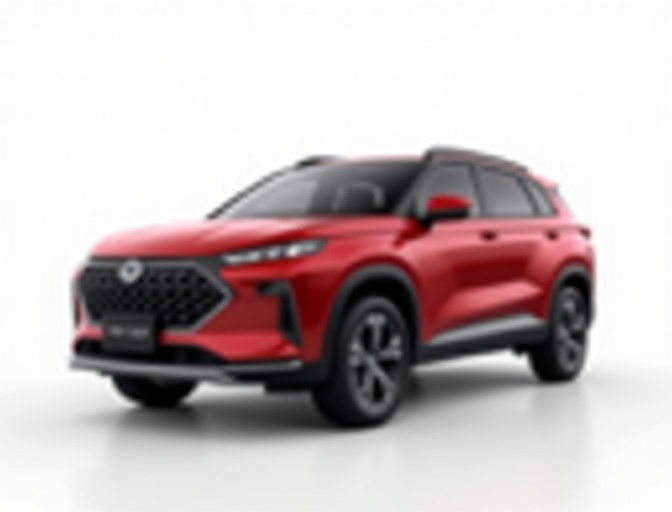
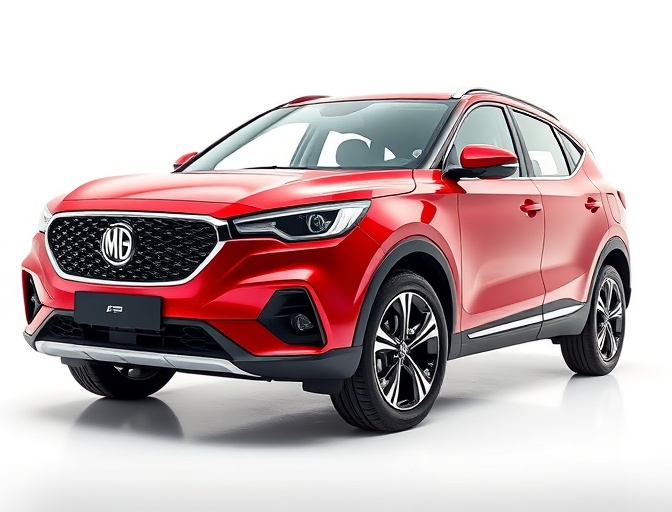
Updates

diff --git a/index.html b/index.html
@@ -87,8 +87,8 @@
         ]
       }
     </script>
-    <script type="module" crossorigin src="/kfdmotors/assets/index-FrkmGRXA.js"></script>
-    <link rel="stylesheet" crossorigin href="/kfdmotors/assets/index-CBtG1Gx0.css">
+    <script type="module" crossorigin src="/kfdmotors/assets/index-CjOHCFP9.js"></script>
+    <link rel="stylesheet" crossorigin href="/kfdmotors/assets/index-DInC2VcM.css">
   </head>
   <body>
     <div id="root"></div>

diff --git a/assets/index-DInC2VcM.css b/assets/index-DInC2VcM.css
@@ -1,0 +1,2 @@
+/*! tailwindcss v4.3.0 | MIT License | https://tailwindcss.com */
+@layer properties{@supports (((-webkit-hyphens:none)) and (not (margin-trim:inline))) or ((-moz-orient:inline) and (not (color:rgb(from red r g b)))){*,:before,:after,::backdrop{--tw-translate-x:0;--tw-translate-y:0;--tw-translate-z:0;--tw-rotate-x:initial;--tw-rotate-y:initial;--tw-rotate-z:initial;--tw-skew-x:initial;--tw-skew-y:initial;--tw-border-style:solid;--tw-gradient-position:initial;--tw-gradient-from:#0000;--tw-gradient-via:#0000;--tw-gradient-to:#0000;--tw-gradient-stops:initial;--tw-gradient-via-stops:initial;--tw-gradient-from-position:0%;--tw-gradient-via-position:50%;--tw-gradient-to-position:100%;--tw-leading:initial;--tw-font-weight:initial;--tw-tracking:initial;--tw-shadow:0 0 #0000;--tw-shadow-color:initial;--tw-shadow-alpha:100%;--tw-inset-shadow:0 0 #0000;--tw-inset-shadow-color:initial;--tw-inset-shadow-alpha:100%;--tw-ring-color:initial;--tw-ring-shadow:0 0 #0000;--tw-inset-ring-color:initial;--tw-inset-ring-shadow:0 0 #0000;--tw-ring-inset:initial;--tw-ring-offset-width:0px;--tw-ring-offset-color:#fff;--tw-ring-offset-shadow:0 0 #0000;--tw-blur:initial;--tw-brightness:initial;--tw-contrast:initial;--tw-grayscale:initial;--tw-hue-rotate:initial;--tw-invert:initial;--tw-opacity:initial;--tw-saturate:initial;--tw-sepia:initial;--tw-drop-shadow:initial;--tw-drop-shadow-color:initial;--tw-drop-shadow-alpha:100%;--tw-drop-shadow-size:initial;--tw-backdrop-blur:initial;--tw-backdrop-brightness:initial;--tw-backdrop-contrast:initial;--tw-backdrop-grayscale:initial;--tw-backdrop-hue-rotate:initial;--tw-backdrop-invert:initial;--tw-backdrop-opacity:initial;--tw-backdrop-saturate:initial;--tw-backdrop-sepia:initial;--tw-duration:initial;--tw-ease:initial;--tw-scale-x:1;--tw-scale-y:1;--tw-scale-z:1;--tw-content:""}}}@layer theme{:root,:host{--font-sans:ui-sans-serif, system-ui, sans-serif, "Apple Color Emoji", "Segoe UI Emoji", "Segoe UI Symbol", "Noto Color Emoji";--font-mono:ui-monospace, SFMono-Regular, Menlo, Monaco, Consolas, "Liberation Mono", "Courier New", monospace;--color-red-50:oklch(97.1% .013 17.38);--color-red-100:oklch(93.6% .032 17.717);--color-red-200:oklch(88.5% .062 18.334);--color-red-500:oklch(63.7% .237 25.331);--color-red-600:oklch(57.7% .245 27.325);--color-orange-50:oklch(98% .016 73.684);--color-orange-100:oklch(95.4% .038 75.164);--color-orange-200:oklch(90.1% .076 70.697);--color-orange-400:oklch(75% .183 55.934);--color-orange-500:oklch(70.5% .213 47.604);--color-yellow-50:oklch(98.7% .026 102.212);--color-yellow-100:oklch(97.3% .071 103.193);--color-yellow-700:oklch(55.4% .135 66.442);--color-green-50:oklch(98.2% .018 155.826);--color-green-100:oklch(96.2% .044 156.743);--color-green-500:oklch(72.3% .219 149.579);--color-green-700:oklch(52.7% .154 150.069);--color-blue-50:oklch(97% .014 254.604);--color-blue-100:oklch(93.2% .032 255.585);--color-blue-200:oklch(88.2% .059 254.128);--color-blue-300:oklch(80.9% .105 251.813);--color-blue-400:oklch(70.7% .165 254.624);--color-blue-500:oklch(62.3% .214 259.815);--color-blue-600:oklch(54.6% .245 262.881);--color-blue-700:oklch(48.8% .243 264.376);--color-gray-50:oklch(98.5% .002 247.839);--color-gray-100:oklch(96.7% .003 264.542);--color-gray-200:oklch(92.8% .006 264.531);--color-gray-300:oklch(87.2% .01 258.338);--color-gray-400:oklch(70.7% .022 261.325);--color-gray-500:oklch(55.1% .027 264.364);--color-gray-600:oklch(44.6% .03 256.802);--color-gray-700:oklch(37.3% .034 259.733);--color-gray-800:oklch(27.8% .033 256.848);--color-gray-900:oklch(21% .034 264.665);--color-black:#000;--color-white:#fff;--spacing:.25rem;--container-xs:20rem;--container-sm:24rem;--container-md:28rem;--container-lg:32rem;--container-xl:36rem;--container-2xl:42rem;--container-3xl:48rem;--container-4xl:56rem;--container-7xl:80rem;--text-xs:.75rem;--text-xs--line-height:calc(1 / .75);--text-sm:.875rem;--text-sm--line-height:calc(1.25 / .875);--text-base:1rem;--text-base--line-height:calc(1.5 / 1);--text-lg:1.125rem;--text-lg--line-height:calc(1.75 / 1.125);--text-xl:1.25rem;--text-xl--line-height:calc(1.75 / 1.25);--text-2xl:1.5rem;--text-2xl--line-height:calc(2 / 1.5);--text-3xl:1.875rem;--text-3xl--line-height:calc(2.25 / 1.875);--text-4xl:2.25rem;--text-4xl--line-height:calc(2.5 / 2.25);--text-5xl:3rem;--text-5xl--line-height:1;--text-6xl:3.75rem;--text-6xl--line-height:1;--text-7xl:4.5rem;--text-7xl--line-height:1;--font-weight-light:300;--font-weight-medium:500;--font-weight-semibold:600;--font-weight-bold:700;--tracking-wide:.025em;--tracking-widest:.1em;--leading-tight:1.25;--leading-snug:1.375;--leading-relaxed:1.625;--radius-lg:.5rem;--radius-xl:.75rem;--radius-2xl:1rem;--ease-in-out:cubic-bezier(.4, 0, .2, 1);--animate-spin:spin 1s linear infinite;--blur-sm:8px;--blur-md:12px;--default-transition-duration:.15s;--default-transition-timing-function:cubic-bezier(.4, 0, .2, 1);--default-font-family:var(--font-sans);--default-mono-font-family:var(--font-mono)}}@layer base{*,:after,:before,::backdrop{box-sizing:border-box;border:0 solid;margin:0;padding:0}::file-selector-button{box-sizing:border-box;border:0 solid;margin:0;padding:0}html,:host{-webkit-text-size-adjust:100%;tab-size:4;line-height:1.5;font-family:var(--default-font-family,ui-sans-serif, system-ui, sans-serif, "Apple Color Emoji", "Segoe UI Emoji", "Segoe UI Symbol", "Noto Color Emoji");font-feature-settings:var(--default-font-feature-settings,normal);font-variation-settings:var(--default-font-variation-settings,normal);-webkit-tap-highlight-color:transparent}hr{height:0;color:inherit;border-top-width:1px}abbr:where([title]){-webkit-text-decoration:underline dotted;text-decoration:underline dotted}h1,h2,h3,h4,h5,h6{font-size:inherit;font-weight:inherit}a{color:inherit;-webkit-text-decoration:inherit;-webkit-text-decoration:inherit;-webkit-text-decoration:inherit;-webkit-text-decoration:inherit;text-decoration:inherit}b,strong{font-weight:bolder}code,kbd,samp,pre{font-family:var(--default-mono-font-family,ui-monospace, SFMono-Regular, Menlo, Monaco, Consolas, "Liberation Mono", "Courier New", monospace);font-feature-settings:var(--default-mono-font-feature-settings,normal);font-variation-settings:var(--default-mono-font-variation-settings,normal);font-size:1em}small{font-size:80%}sub,sup{vertical-align:baseline;font-size:75%;line-height:0;position:relative}sub{bottom:-.25em}sup{top:-.5em}table{text-indent:0;border-color:inherit;border-collapse:collapse}:-moz-focusring{outline:auto}progress{vertical-align:baseline}summary{display:list-item}ol,ul,menu{list-style:none}img,svg,video,canvas,audio,iframe,embed,object{vertical-align:middle;display:block}img,video{max-width:100%;height:auto}button,input,select,optgroup,textarea{font:inherit;font-feature-settings:inherit;font-variation-settings:inherit;letter-spacing:inherit;color:inherit;opacity:1;background-color:#0000;border-radius:0}::file-selector-button{font:inherit;font-feature-settings:inherit;font-variation-settings:inherit;letter-spacing:inherit;color:inherit;opacity:1;background-color:#0000;border-radius:0}:where(select:is([multiple],[size])) optgroup{font-weight:bolder}:where(select:is([multiple],[size])) optgroup option{padding-inline-start:20px}::file-selector-button{margin-inline-end:4px}::placeholder{opacity:1}@supports (not ((-webkit-appearance:-apple-pay-button))) or (contain-intrinsic-size:1px){::placeholder{color:currentColor}@supports (color:color-mix(in lab, red, red)){::placeholder{color:color-mix(in oklab, currentcolor 50%, transparent)}}}textarea{resize:vertical}::-webkit-search-decoration{-webkit-appearance:none}::-webkit-date-and-time-value{min-height:1lh;text-align:inherit}::-webkit-datetime-edit{display:inline-flex}::-webkit-datetime-edit-fields-wrapper{padding:0}::-webkit-datetime-edit{padding-block:0}::-webkit-datetime-edit-year-field{padding-block:0}::-webkit-datetime-edit-month-field{padding-block:0}::-webkit-datetime-edit-day-field{padding-block:0}::-webkit-datetime-edit-hour-field{padding-block:0}::-webkit-datetime-edit-minute-field{padding-block:0}::-webkit-datetime-edit-second-field{padding-block:0}::-webkit-datetime-edit-millisecond-field{padding-block:0}::-webkit-datetime-edit-meridiem-field{padding-block:0}::-webkit-calendar-picker-indicator{line-height:1}:-moz-ui-invalid{box-shadow:none}button,input:where([type=button],[type=reset],[type=submit]){appearance:button}::file-selector-button{appearance:button}::-webkit-inner-spin-button{height:auto}::-webkit-outer-spin-button{height:auto}[hidden]:where(:not([hidden=until-found])){display:none!important}}@layer components;@layer utilities{.pointer-events-none{pointer-events:none}.absolute{position:absolute}.fixed{position:fixed}.relative{position:relative}.sticky{position:sticky}.inset-0{inset:calc(var(--spacing) * 0)}.-top-1{top:calc(var(--spacing) * -1)}.top-0{top:calc(var(--spacing) * 0)}.top-1\/2{top:50%}.top-3{top:calc(var(--spacing) * 3)}.top-4{top:calc(var(--spacing) * 4)}.top-6{top:calc(var(--spacing) * 6)}.-right-1{right:calc(var(--spacing) * -1)}.right-3{right:calc(var(--spacing) * 3)}.right-4{right:calc(var(--spacing) * 4)}.right-6{right:calc(var(--spacing) * 6)}.right-8{right:calc(var(--spacing) * 8)}.bottom-3{bottom:calc(var(--spacing) * 3)}.bottom-6{bottom:calc(var(--spacing) * 6)}.bottom-8{bottom:calc(var(--spacing) * 8)}.left-0{left:calc(var(--spacing) * 0)}.left-1\/2{left:50%}.left-3{left:calc(var(--spacing) * 3)}.left-4{left:calc(var(--spacing) * 4)}.z-0{z-index:0}.z-10{z-index:10}.z-30{z-index:30}.z-40{z-index:40}.z-50{z-index:50}.mx-auto{margin-inline:auto}.my-3{margin-block:calc(var(--spacing) * 3)}.mt-0\.5{margin-top:calc(var(--spacing) * .5)}.mt-1{margin-top:calc(var(--spacing) * 1)}.mt-2{margin-top:calc(var(--spacing) * 2)}.mt-3{margin-top:calc(var(--spacing) * 3)}.mt-4{margin-top:calc(var(--spacing) * 4)}.mt-6{margin-top:calc(var(--spacing) * 6)}.mt-8{margin-top:calc(var(--spacing) * 8)}.mt-10{margin-top:calc(var(--spacing) * 10)}.mt-12{margin-top:calc(var(--spacing) * 12)}.mt-16{margin-top:calc(var(--spacing) * 16)}.mt-20{margin-top:calc(var(--spacing) * 20)}.mb-0\.5{margin-bottom:calc(var(--spacing) * .5)}.mb-1{margin-bottom:calc(var(--spacing) * 1)}.mb-2{margin-bottom:calc(var(--spacing) * 2)}.mb-3{margin-bottom:calc(var(--spacing) * 3)}.mb-4{margin-bottom:calc(var(--spacing) * 4)}.mb-5{margin-bottom:calc(var(--spacing) * 5)}.mb-6{margin-bottom:calc(var(--spacing) * 6)}.mb-8{margin-bottom:calc(var(--spacing) * 8)}.mb-10{margin-bottom:calc(var(--spacing) * 10)}.mb-12{margin-bottom:calc(var(--spacing) * 12)}.mb-14{margin-bottom:calc(var(--spacing) * 14)}.mb-24{margin-bottom:calc(var(--spacing) * 24)}.ml-auto{margin-left:auto}.block{display:block}.flex{display:flex}.grid{display:grid}.hidden{display:none}.inline-flex{display:inline-flex}.h-0\.5{height:calc(var(--spacing) * .5)}.h-1\.5{height:calc(var(--spacing) * 1.5)}.h-2{height:calc(var(--spacing) * 2)}.h-4{height:calc(var(--spacing) * 4)}.h-8{height:calc(var(--spacing) * 8)}.h-9{height:calc(var(--spacing) * 9)}.h-10{height:calc(var(--spacing) * 10)}.h-11{height:calc(var(--spacing) * 11)}.h-12{height:calc(var(--spacing) * 12)}.h-14{height:calc(var(--spacing) * 14)}.h-16{height:calc(var(--spacing) * 16)}.h-20{height:calc(var(--spacing) * 20)}.h-40{height:calc(var(--spacing) * 40)}.h-48{height:calc(var(--spacing) * 48)}.h-52{height:calc(var(--spacing) * 52)}.h-72{height:calc(var(--spacing) * 72)}.h-80{height:calc(var(--spacing) * 80)}.h-\[1px\]{height:1px}.h-full{height:100%}.max-h-0{max-height:calc(var(--spacing) * 0)}.max-h-\[90vh\]{max-height:90vh}.max-h-\[400px\]{max-height:400px}.min-h-screen{min-height:100vh}.w-1\.5{width:calc(var(--spacing) * 1.5)}.w-2{width:calc(var(--spacing) * 2)}.w-4{width:calc(var(--spacing) * 4)}.w-6{width:calc(var(--spacing) * 6)}.w-8{width:calc(var(--spacing) * 8)}.w-9{width:calc(var(--spacing) * 9)}.w-10{width:calc(var(--spacing) * 10)}.w-11{width:calc(var(--spacing) * 11)}.w-12{width:calc(var(--spacing) * 12)}.w-14{width:calc(var(--spacing) * 14)}.w-16{width:calc(var(--spacing) * 16)}.w-64{width:calc(var(--spacing) * 64)}.w-auto{width:auto}.w-full{width:100%}.max-w-2xl{max-width:var(--container-2xl)}.max-w-3xl{max-width:var(--container-3xl)}.max-w-4xl{max-width:var(--container-4xl)}.max-w-7xl{max-width:var(--container-7xl)}.max-w-lg{max-width:var(--container-lg)}.max-w-md{max-width:var(--container-md)}.max-w-sm{max-width:var(--container-sm)}.max-w-xl{max-width:var(--container-xl)}.max-w-xs{max-width:var(--container-xs)}.flex-1{flex:1}.shrink-0{flex-shrink:0}.-translate-x-1\/2{--tw-translate-x:calc(calc(1 / 2 * 100%) * -1);translate:var(--tw-translate-x) var(--tw-translate-y)}.-translate-x-2{--tw-translate-x:calc(var(--spacing) * -2);translate:var(--tw-translate-x) var(--tw-translate-y)}.-translate-x-full{--tw-translate-x:-100%;translate:var(--tw-translate-x) var(--tw-translate-y)}.translate-x-0{--tw-translate-x:calc(var(--spacing) * 0);translate:var(--tw-translate-x) var(--tw-translate-y)}.-translate-y-1\/2{--tw-translate-y:calc(calc(1 / 2 * 100%) * -1);translate:var(--tw-translate-x) var(--tw-translate-y)}.rotate-180{rotate:180deg}.transform{transform:var(--tw-rotate-x,) var(--tw-rotate-y,) var(--tw-rotate-z,) var(--tw-skew-x,) var(--tw-skew-y,)}.animate-spin{animation:var(--animate-spin)}.cursor-pointer{cursor:pointer}.resize-none{resize:none}.appearance-none{appearance:none}.grid-cols-1{grid-template-columns:repeat(1,minmax(0,1fr))}.grid-cols-2{grid-template-columns:repeat(2,minmax(0,1fr))}.flex-col{flex-direction:column}.flex-wrap{flex-wrap:wrap}.items-baseline{align-items:baseline}.items-center{align-items:center}.items-start{align-items:flex-start}.items-stretch{align-items:stretch}.justify-between{justify-content:space-between}.justify-center{justify-content:center}.justify-end{justify-content:flex-end}.gap-1{gap:calc(var(--spacing) * 1)}.gap-1\.5{gap:calc(var(--spacing) * 1.5)}.gap-2{gap:calc(var(--spacing) * 2)}.gap-2\.5{gap:calc(var(--spacing) * 2.5)}.gap-3{gap:calc(var(--spacing) * 3)}.gap-4{gap:calc(var(--spacing) * 4)}.gap-5{gap:calc(var(--spacing) * 5)}.gap-6{gap:calc(var(--spacing) * 6)}.gap-8{gap:calc(var(--spacing) * 8)}.gap-12{gap:calc(var(--spacing) * 12)}.gap-16{gap:calc(var(--spacing) * 16)}.self-start{align-self:flex-start}.truncate{text-overflow:ellipsis;white-space:nowrap;overflow:hidden}.overflow-hidden{overflow:hidden}.overflow-x-auto{overflow-x:auto}.overflow-y-auto{overflow-y:auto}.rounded-2xl{border-radius:var(--radius-2xl)}.rounded-full{border-radius:3.40282e38px}.rounded-lg{border-radius:var(--radius-lg)}.rounded-xl{border-radius:var(--radius-xl)}.border{border-style:var(--tw-border-style);border-width:1px}.border-2{border-style:var(--tw-border-style);border-width:2px}.border-t{border-top-style:var(--tw-border-style);border-top-width:1px}.border-r{border-right-style:var(--tw-border-style);border-right-width:1px}.border-b{border-bottom-style:var(--tw-border-style);border-bottom-width:1px}.border-dashed{--tw-border-style:dashed;border-style:dashed}.border-blue-100{border-color:var(--color-blue-100)}.border-blue-200{border-color:var(--color-blue-200)}.border-blue-600{border-color:var(--color-blue-600)}.border-gray-50{border-color:var(--color-gray-50)}.border-gray-100{border-color:var(--color-gray-100)}.border-gray-200{border-color:var(--color-gray-200)}.border-gray-700{border-color:var(--color-gray-700)}.border-gray-800{border-color:var(--color-gray-800)}.border-green-100{border-color:var(--color-green-100)}.border-orange-100{border-color:var(--color-orange-100)}.border-orange-200{border-color:var(--color-orange-200)}.border-red-100{border-color:var(--color-red-100)}.border-red-200{border-color:var(--color-red-200)}.border-white\/30{border-color:#ffffff4d}@supports (color:color-mix(in lab, red, red)){.border-white\/30{border-color:color-mix(in oklab, var(--color-white) 30%, transparent)}}.border-white\/40{border-color:#fff6}@supports (color:color-mix(in lab, red, red)){.border-white\/40{border-color:color-mix(in oklab, var(--color-white) 40%, transparent)}}.border-yellow-100{border-color:var(--color-yellow-100)}.bg-black\/30{background-color:#0000004d}@supports (color:color-mix(in lab, red, red)){.bg-black\/30{background-color:color-mix(in oklab, var(--color-black) 30%, transparent)}}.bg-black\/40{background-color:#0006}@supports (color:color-mix(in lab, red, red)){.bg-black\/40{background-color:color-mix(in oklab, var(--color-black) 40%, transparent)}}.bg-black\/50{background-color:#00000080}@supports (color:color-mix(in lab, red, red)){.bg-black\/50{background-color:color-mix(in oklab, var(--color-black) 50%, transparent)}}.bg-black\/70{background-color:#000000b3}@supports (color:color-mix(in lab, red, red)){.bg-black\/70{background-color:color-mix(in oklab, var(--color-black) 70%, transparent)}}.bg-blue-50{background-color:var(--color-blue-50)}.bg-blue-100{background-color:var(--color-blue-100)}.bg-blue-400{background-color:var(--color-blue-400)}.bg-blue-600{background-color:var(--color-blue-600)}.bg-gray-50{background-color:var(--color-gray-50)}.bg-gray-100{background-color:var(--color-gray-100)}.bg-gray-300{background-color:var(--color-gray-300)}.bg-gray-800{background-color:var(--color-gray-800)}.bg-gray-900{background-color:var(--color-gray-900)}.bg-green-50{background-color:var(--color-green-50)}.bg-orange-50{background-color:var(--color-orange-50)}.bg-red-50{background-color:var(--color-red-50)}.bg-red-500{background-color:var(--color-red-500)}.bg-white{background-color:var(--color-white)}.bg-white\/10{background-color:#ffffff1a}@supports (color:color-mix(in lab, red, red)){.bg-white\/10{background-color:color-mix(in oklab, var(--color-white) 10%, transparent)}}.bg-white\/20{background-color:#fff3}@supports (color:color-mix(in lab, red, red)){.bg-white\/20{background-color:color-mix(in oklab, var(--color-white) 20%, transparent)}}.bg-white\/90{background-color:#ffffffe6}@supports (color:color-mix(in lab, red, red)){.bg-white\/90{background-color:color-mix(in oklab, var(--color-white) 90%, transparent)}}.bg-yellow-50{background-color:var(--color-yellow-50)}.bg-gradient-to-r{--tw-gradient-position:to right in oklab;background-image:linear-gradient(var(--tw-gradient-stops))}.bg-gradient-to-t{--tw-gradient-position:to top in oklab;background-image:linear-gradient(var(--tw-gradient-stops))}.from-black\/60{--tw-gradient-from:#0009}@supports (color:color-mix(in lab, red, red)){.from-black\/60{--tw-gradient-from:color-mix(in oklab, var(--color-black) 60%, transparent)}}.from-black\/60{--tw-gradient-stops:var(--tw-gradient-via-stops,var(--tw-gradient-position), var(--tw-gradient-from) var(--tw-gradient-from-position), var(--tw-gradient-to) var(--tw-gradient-to-position))}.from-black\/80{--tw-gradient-from:#000c}@supports (color:color-mix(in lab, red, red)){.from-black\/80{--tw-gradient-from:color-mix(in oklab, var(--color-black) 80%, transparent)}}.from-black\/80{--tw-gradient-stops:var(--tw-gradient-via-stops,var(--tw-gradient-position), var(--tw-gradient-from) var(--tw-gradient-from-position), var(--tw-gradient-to) var(--tw-gradient-to-position))}.via-black\/60{--tw-gradient-via:#0009}@supports (color:color-mix(in lab, red, red)){.via-black\/60{--tw-gradient-via:color-mix(in oklab, var(--color-black) 60%, transparent)}}.via-black\/60{--tw-gradient-via-stops:var(--tw-gradient-position), var(--tw-gradient-from) var(--tw-gradient-from-position), var(--tw-gradient-via) var(--tw-gradient-via-position), var(--tw-gradient-to) var(--tw-gradient-to-position);--tw-gradient-stops:var(--tw-gradient-via-stops)}.via-transparent{--tw-gradient-via:transparent;--tw-gradient-via-stops:var(--tw-gradient-position), var(--tw-gradient-from) var(--tw-gradient-from-position), var(--tw-gradient-via) var(--tw-gradient-via-position), var(--tw-gradient-to) var(--tw-gradient-to-position);--tw-gradient-stops:var(--tw-gradient-via-stops)}.to-black\/30{--tw-gradient-to:#0000004d}@supports (color:color-mix(in lab, red, red)){.to-black\/30{--tw-gradient-to:color-mix(in oklab, var(--color-black) 30%, transparent)}}.to-black\/30{--tw-gradient-stops:var(--tw-gradient-via-stops,var(--tw-gradient-position), var(--tw-gradient-from) var(--tw-gradient-from-position), var(--tw-gradient-to) var(--tw-gradient-to-position))}.to-transparent{--tw-gradient-to:transparent;--tw-gradient-stops:var(--tw-gradient-via-stops,var(--tw-gradient-position), var(--tw-gradient-from) var(--tw-gradient-from-position), var(--tw-gradient-to) var(--tw-gradient-to-position))}.fill-blue-600{fill:var(--color-blue-600)}.fill-red-500{fill:var(--color-red-500)}.object-contain{object-fit:contain}.object-cover{object-fit:cover}.object-center{object-position:center}.p-1{padding:calc(var(--spacing) * 1)}.p-3{padding:calc(var(--spacing) * 3)}.p-4{padding:calc(var(--spacing) * 4)}.p-5{padding:calc(var(--spacing) * 5)}.p-6{padding:calc(var(--spacing) * 6)}.p-8{padding:calc(var(--spacing) * 8)}.p-10{padding:calc(var(--spacing) * 10)}.px-2{padding-inline:calc(var(--spacing) * 2)}.px-2\.5{padding-inline:calc(var(--spacing) * 2.5)}.px-3{padding-inline:calc(var(--spacing) * 3)}.px-4{padding-inline:calc(var(--spacing) * 4)}.px-5{padding-inline:calc(var(--spacing) * 5)}.px-6{padding-inline:calc(var(--spacing) * 6)}.px-7{padding-inline:calc(var(--spacing) * 7)}.px-8{padding-inline:calc(var(--spacing) * 8)}.py-0\.5{padding-block:calc(var(--spacing) * .5)}.py-1{padding-block:calc(var(--spacing) * 1)}.py-1\.5{padding-block:calc(var(--spacing) * 1.5)}.py-2{padding-block:calc(var(--spacing) * 2)}.py-2\.5{padding-block:calc(var(--spacing) * 2.5)}.py-3{padding-block:calc(var(--spacing) * 3)}.py-3\.5{padding-block:calc(var(--spacing) * 3.5)}.py-4{padding-block:calc(var(--spacing) * 4)}.py-5{padding-block:calc(var(--spacing) * 5)}.py-8{padding-block:calc(var(--spacing) * 8)}.py-10{padding-block:calc(var(--spacing) * 10)}.py-16{padding-block:calc(var(--spacing) * 16)}.py-20{padding-block:calc(var(--spacing) * 20)}.py-24{padding-block:calc(var(--spacing) * 24)}.pt-2{padding-top:calc(var(--spacing) * 2)}.pt-4{padding-top:calc(var(--spacing) * 4)}.pt-16{padding-top:calc(var(--spacing) * 16)}.pt-24{padding-top:calc(var(--spacing) * 24)}.pr-4{padding-right:calc(var(--spacing) * 4)}.pr-8{padding-right:calc(var(--spacing) * 8)}.pr-11{padding-right:calc(var(--spacing) * 11)}.pb-1{padding-bottom:calc(var(--spacing) * 1)}.pb-5{padding-bottom:calc(var(--spacing) * 5)}.pb-12{padding-bottom:calc(var(--spacing) * 12)}.pb-20{padding-bottom:calc(var(--spacing) * 20)}.pl-10{padding-left:calc(var(--spacing) * 10)}.text-center{text-align:center}.text-left{text-align:left}.text-2xl{font-size:var(--text-2xl);line-height:var(--tw-leading,var(--text-2xl--line-height))}.text-3xl{font-size:var(--text-3xl);line-height:var(--tw-leading,var(--text-3xl--line-height))}.text-4xl{font-size:var(--text-4xl);line-height:var(--tw-leading,var(--text-4xl--line-height))}.text-5xl{font-size:var(--text-5xl);line-height:var(--tw-leading,var(--text-5xl--line-height))}.text-base{font-size:var(--text-base);line-height:var(--tw-leading,var(--text-base--line-height))}.text-lg{font-size:var(--text-lg);line-height:var(--tw-leading,var(--text-lg--line-height))}.text-sm{font-size:var(--text-sm);line-height:var(--tw-leading,var(--text-sm--line-height))}.text-xl{font-size:var(--text-xl);line-height:var(--tw-leading,var(--text-xl--line-height))}.text-xs{font-size:var(--text-xs);line-height:var(--tw-leading,var(--text-xs--line-height))}.text-\[9px\]{font-size:9px}.text-\[10px\]{font-size:10px}.leading-relaxed{--tw-leading:var(--leading-relaxed);line-height:var(--leading-relaxed)}.leading-snug{--tw-leading:var(--leading-snug);line-height:var(--leading-snug)}.leading-tight{--tw-leading:var(--leading-tight);line-height:var(--leading-tight)}.font-bold{--tw-font-weight:var(--font-weight-bold);font-weight:var(--font-weight-bold)}.font-light{--tw-font-weight:var(--font-weight-light);font-weight:var(--font-weight-light)}.font-medium{--tw-font-weight:var(--font-weight-medium);font-weight:var(--font-weight-medium)}.font-semibold{--tw-font-weight:var(--font-weight-semibold);font-weight:var(--font-weight-semibold)}.tracking-\[0\.2em\]{--tw-tracking:.2em;letter-spacing:.2em}.tracking-\[0\.3em\]{--tw-tracking:.3em;letter-spacing:.3em}.tracking-wide{--tw-tracking:var(--tracking-wide);letter-spacing:var(--tracking-wide)}.tracking-widest{--tw-tracking:var(--tracking-widest);letter-spacing:var(--tracking-widest)}.break-all{word-break:break-all}.whitespace-nowrap{white-space:nowrap}.text-blue-100{color:var(--color-blue-100)}.text-blue-200{color:var(--color-blue-200)}.text-blue-400{color:var(--color-blue-400)}.text-blue-500{color:var(--color-blue-500)}.text-blue-600{color:var(--color-blue-600)}.text-blue-700{color:var(--color-blue-700)}.text-gray-200{color:var(--color-gray-200)}.text-gray-300{color:var(--color-gray-300)}.text-gray-400{color:var(--color-gray-400)}.text-gray-500{color:var(--color-gray-500)}.text-gray-600{color:var(--color-gray-600)}.text-gray-700{color:var(--color-gray-700)}.text-gray-800{color:var(--color-gray-800)}.text-gray-900{color:var(--color-gray-900)}.text-green-500{color:var(--color-green-500)}.text-green-700{color:var(--color-green-700)}.text-orange-400{color:var(--color-orange-400)}.text-orange-500{color:var(--color-orange-500)}.text-red-500{color:var(--color-red-500)}.text-red-600{color:var(--color-red-600)}.text-white{color:var(--color-white)}.text-yellow-700{color:var(--color-yellow-700)}.uppercase{text-transform:uppercase}.italic{font-style:italic}.underline{text-decoration-line:underline}.underline-offset-2{text-underline-offset:2px}.placeholder-gray-400::placeholder{color:var(--color-gray-400)}.opacity-0{opacity:0}.opacity-5{opacity:.05}.opacity-25{opacity:.25}.opacity-75{opacity:.75}.opacity-100{opacity:1}.shadow-lg{--tw-shadow:0 10px 15px -3px var(--tw-shadow-color,#0000001a), 0 4px 6px -4px var(--tw-shadow-color,#0000001a);box-shadow:var(--tw-inset-shadow), var(--tw-inset-ring-shadow), var(--tw-ring-offset-shadow), var(--tw-ring-shadow), var(--tw-shadow)}.shadow-md{--tw-shadow:0 4px 6px -1px var(--tw-shadow-color,#0000001a), 0 2px 4px -2px var(--tw-shadow-color,#0000001a);box-shadow:var(--tw-inset-shadow), var(--tw-inset-ring-shadow), var(--tw-ring-offset-shadow), var(--tw-ring-shadow), var(--tw-shadow)}.shadow-sm{--tw-shadow:0 1px 3px 0 var(--tw-shadow-color,#0000001a), 0 1px 2px -1px var(--tw-shadow-color,#0000001a);box-shadow:var(--tw-inset-shadow), var(--tw-inset-ring-shadow), var(--tw-ring-offset-shadow), var(--tw-ring-shadow), var(--tw-shadow)}.shadow-xl{--tw-shadow:0 20px 25px -5px var(--tw-shadow-color,#0000001a), 0 8px 10px -6px var(--tw-shadow-color,#0000001a);box-shadow:var(--tw-inset-shadow), var(--tw-inset-ring-shadow), var(--tw-ring-offset-shadow), var(--tw-ring-shadow), var(--tw-shadow)}.shadow-blue-100{--tw-shadow-color:oklch(93.2% .032 255.585)}@supports (color:color-mix(in lab, red, red)){.shadow-blue-100{--tw-shadow-color:color-mix(in oklab, var(--color-blue-100) var(--tw-shadow-alpha), transparent)}}.shadow-blue-200{--tw-shadow-color:oklch(88.2% .059 254.128)}@supports (color:color-mix(in lab, red, red)){.shadow-blue-200{--tw-shadow-color:color-mix(in oklab, var(--color-blue-200) var(--tw-shadow-alpha), transparent)}}.filter{filter:var(--tw-blur,) var(--tw-brightness,) var(--tw-contrast,) var(--tw-grayscale,) var(--tw-hue-rotate,) var(--tw-invert,) var(--tw-saturate,) var(--tw-sepia,) var(--tw-drop-shadow,)}.backdrop-blur-md{--tw-backdrop-blur:blur(var(--blur-md));-webkit-backdrop-filter:var(--tw-backdrop-blur,) var(--tw-backdrop-brightness,) var(--tw-backdrop-contrast,) var(--tw-backdrop-grayscale,) var(--tw-backdrop-hue-rotate,) var(--tw-backdrop-invert,) var(--tw-backdrop-opacity,) var(--tw-backdrop-saturate,) var(--tw-backdrop-sepia,);backdrop-filter:var(--tw-backdrop-blur,) var(--tw-backdrop-brightness,) var(--tw-backdrop-contrast,) var(--tw-backdrop-grayscale,) var(--tw-backdrop-hue-rotate,) var(--tw-backdrop-invert,) var(--tw-backdrop-opacity,) var(--tw-backdrop-saturate,) var(--tw-backdrop-sepia,)}.backdrop-blur-sm{--tw-backdrop-blur:blur(var(--blur-sm));-webkit-backdrop-filter:var(--tw-backdrop-blur,) var(--tw-backdrop-brightness,) var(--tw-backdrop-contrast,) var(--tw-backdrop-grayscale,) var(--tw-backdrop-hue-rotate,) var(--tw-backdrop-invert,) var(--tw-backdrop-opacity,) var(--tw-backdrop-saturate,) var(--tw-backdrop-sepia,);backdrop-filter:var(--tw-backdrop-blur,) var(--tw-backdrop-brightness,) var(--tw-backdrop-contrast,) var(--tw-backdrop-grayscale,) var(--tw-backdrop-hue-rotate,) var(--tw-backdrop-invert,) var(--tw-backdrop-opacity,) var(--tw-backdrop-saturate,) var(--tw-backdrop-sepia,)}.transition{transition-property:color,background-color,border-color,outline-color,text-decoration-color,fill,stroke,--tw-gradient-from,--tw-gradient-via,--tw-gradient-to,opacity,box-shadow,transform,translate,scale,rotate,filter,-webkit-backdrop-filter,backdrop-filter,display,content-visibility,overlay,pointer-events;transition-timing-function:var(--tw-ease,var(--default-transition-timing-function));transition-duration:var(--tw-duration,var(--default-transition-duration))}.transition-all{transition-property:all;transition-timing-function:var(--tw-ease,var(--default-transition-timing-function));transition-duration:var(--tw-duration,var(--default-transition-duration))}.transition-colors{transition-property:color,background-color,border-color,outline-color,text-decoration-color,fill,stroke,--tw-gradient-from,--tw-gradient-via,--tw-gradient-to;transition-timing-function:var(--tw-ease,var(--default-transition-timing-function));transition-duration:var(--tw-duration,var(--default-transition-duration))}.transition-shadow{transition-property:box-shadow;transition-timing-function:var(--tw-ease,var(--default-transition-timing-function));transition-duration:var(--tw-duration,var(--default-transition-duration))}.transition-transform{transition-property:transform,translate,scale,rotate;transition-timing-function:var(--tw-ease,var(--default-transition-timing-function));transition-duration:var(--tw-duration,var(--default-transition-duration))}.duration-200{--tw-duration:.2s;transition-duration:.2s}.duration-300{--tw-duration:.3s;transition-duration:.3s}.duration-500{--tw-duration:.5s;transition-duration:.5s}.ease-in-out{--tw-ease:var(--ease-in-out);transition-timing-function:var(--ease-in-out)}@media (hover:hover){.group-hover\:-translate-x-1:is(:where(.group):hover *){--tw-translate-x:calc(var(--spacing) * -1);translate:var(--tw-translate-x) var(--tw-translate-y)}.group-hover\:translate-x-0:is(:where(.group):hover *){--tw-translate-x:calc(var(--spacing) * 0);translate:var(--tw-translate-x) var(--tw-translate-y)}.group-hover\:scale-105:is(:where(.group):hover *){--tw-scale-x:105%;--tw-scale-y:105%;--tw-scale-z:105%;scale:var(--tw-scale-x) var(--tw-scale-y)}.group-hover\:border-blue-600:is(:where(.group):hover *){border-color:var(--color-blue-600)}.group-hover\:bg-blue-600:is(:where(.group):hover *){background-color:var(--color-blue-600)}.group-hover\:text-blue-400:is(:where(.group):hover *){color:var(--color-blue-400)}.group-hover\:text-blue-600:is(:where(.group):hover *){color:var(--color-blue-600)}.group-hover\:text-white:is(:where(.group):hover *){color:var(--color-white)}.group-hover\:opacity-100:is(:where(.group):hover *){opacity:1}.group-hover\/btn\:translate-x-1:is(:where(.group\/btn):hover *),.group-hover\/link\:translate-x-1:is(:where(.group\/link):hover *){--tw-translate-x:calc(var(--spacing) * 1);translate:var(--tw-translate-x) var(--tw-translate-y)}}.after\:absolute:after{content:var(--tw-content);position:absolute}.after\:bottom-0:after{content:var(--tw-content);bottom:calc(var(--spacing) * 0)}.after\:left-0:after{content:var(--tw-content);left:calc(var(--spacing) * 0)}.after\:h-\[2px\]:after{content:var(--tw-content);height:2px}.after\:w-full:after{content:var(--tw-content);width:100%}.after\:rounded-full:after{content:var(--tw-content);border-radius:3.40282e38px}.after\:bg-blue-600:after{content:var(--tw-content);background-color:var(--color-blue-600)}.after\:content-\[\'\'\]:after{--tw-content:"";content:var(--tw-content)}@media (hover:hover){.hover\:-translate-y-1:hover{--tw-translate-y:calc(var(--spacing) * -1);translate:var(--tw-translate-x) var(--tw-translate-y)}.hover\:scale-110:hover{--tw-scale-x:110%;--tw-scale-y:110%;--tw-scale-z:110%;scale:var(--tw-scale-x) var(--tw-scale-y)}.hover\:border-blue-200:hover{border-color:var(--color-blue-200)}.hover\:border-blue-400:hover{border-color:var(--color-blue-400)}.hover\:border-blue-600:hover{border-color:var(--color-blue-600)}.hover\:border-gray-200:hover{border-color:var(--color-gray-200)}.hover\:border-gray-300:hover{border-color:var(--color-gray-300)}.hover\:border-red-100:hover{border-color:var(--color-red-100)}.hover\:border-white:hover{border-color:var(--color-white)}.hover\:border-white\/60:hover{border-color:#fff9}@supports (color:color-mix(in lab, red, red)){.hover\:border-white\/60:hover{border-color:color-mix(in oklab, var(--color-white) 60%, transparent)}}.hover\:bg-black\/70:hover{background-color:#000000b3}@supports (color:color-mix(in lab, red, red)){.hover\:bg-black\/70:hover{background-color:color-mix(in oklab, var(--color-black) 70%, transparent)}}.hover\:bg-blue-50:hover{background-color:var(--color-blue-50)}.hover\:bg-blue-300:hover{background-color:var(--color-blue-300)}.hover\:bg-blue-600:hover{background-color:var(--color-blue-600)}.hover\:bg-blue-700:hover{background-color:var(--color-blue-700)}.hover\:bg-gray-50:hover{background-color:var(--color-gray-50)}.hover\:bg-gray-100:hover{background-color:var(--color-gray-100)}.hover\:bg-orange-100:hover{background-color:var(--color-orange-100)}.hover\:bg-red-50:hover{background-color:var(--color-red-50)}.hover\:bg-red-600:hover{background-color:var(--color-red-600)}.hover\:bg-white\/20:hover{background-color:#fff3}@supports (color:color-mix(in lab, red, red)){.hover\:bg-white\/20:hover{background-color:color-mix(in oklab, var(--color-white) 20%, transparent)}}.hover\:text-blue-300:hover{color:var(--color-blue-300)}.hover\:text-blue-400:hover{color:var(--color-blue-400)}.hover\:text-blue-600:hover{color:var(--color-blue-600)}.hover\:text-blue-700:hover{color:var(--color-blue-700)}.hover\:text-gray-300:hover{color:var(--color-gray-300)}.hover\:text-gray-600:hover{color:var(--color-gray-600)}.hover\:text-gray-800:hover{color:var(--color-gray-800)}.hover\:text-gray-900:hover{color:var(--color-gray-900)}.hover\:text-red-500:hover{color:var(--color-red-500)}.hover\:text-white:hover{color:var(--color-white)}.hover\:shadow-lg:hover{--tw-shadow:0 10px 15px -3px var(--tw-shadow-color,#0000001a), 0 4px 6px -4px var(--tw-shadow-color,#0000001a);box-shadow:var(--tw-inset-shadow), var(--tw-inset-ring-shadow), var(--tw-ring-offset-shadow), var(--tw-ring-shadow), var(--tw-shadow)}.hover\:shadow-md:hover{--tw-shadow:0 4px 6px -1px var(--tw-shadow-color,#0000001a), 0 2px 4px -2px var(--tw-shadow-color,#0000001a);box-shadow:var(--tw-inset-shadow), var(--tw-inset-ring-shadow), var(--tw-ring-offset-shadow), var(--tw-ring-shadow), var(--tw-shadow)}.hover\:shadow-sm:hover{--tw-shadow:0 1px 3px 0 var(--tw-shadow-color,#0000001a), 0 1px 2px -1px var(--tw-shadow-color,#0000001a);box-shadow:var(--tw-inset-shadow), var(--tw-inset-ring-shadow), var(--tw-ring-offset-shadow), var(--tw-ring-shadow), var(--tw-shadow)}.hover\:shadow-blue-600\/30:hover{--tw-shadow-color:#155dfc4d}@supports (color:color-mix(in lab, red, red)){.hover\:shadow-blue-600\/30:hover{--tw-shadow-color:color-mix(in oklab, color-mix(in oklab, var(--color-blue-600) 30%, transparent) var(--tw-shadow-alpha), transparent)}}}.focus\:border-blue-400:focus{border-color:var(--color-blue-400)}.focus\:ring-2:focus{--tw-ring-shadow:var(--tw-ring-inset,) 0 0 0 calc(2px + var(--tw-ring-offset-width)) var(--tw-ring-color,currentcolor);box-shadow:var(--tw-inset-shadow), var(--tw-inset-ring-shadow), var(--tw-ring-offset-shadow), var(--tw-ring-shadow), var(--tw-shadow)}.focus\:ring-blue-100:focus{--tw-ring-color:var(--color-blue-100)}.focus\:outline-none:focus{--tw-outline-style:none;outline-style:none}.disabled\:cursor-not-allowed:disabled{cursor:not-allowed}.disabled\:bg-blue-300:disabled{background-color:var(--color-blue-300)}@media (width>=40rem){.sm\:block{display:block}.sm\:flex{display:flex}.sm\:grid-cols-2{grid-template-columns:repeat(2,minmax(0,1fr))}.sm\:grid-cols-3{grid-template-columns:repeat(3,minmax(0,1fr))}.sm\:grid-cols-4{grid-template-columns:repeat(4,minmax(0,1fr))}.sm\:flex-row{flex-direction:row}.sm\:items-center{align-items:center}.sm\:text-left{text-align:left}}@media (width>=48rem){.md\:flex{display:flex}.md\:hidden{display:none}.md\:inline-flex{display:inline-flex}.md\:h-96{height:calc(var(--spacing) * 96)}.md\:grid-cols-2{grid-template-columns:repeat(2,minmax(0,1fr))}.md\:grid-cols-4{grid-template-columns:repeat(4,minmax(0,1fr))}.md\:flex-row{flex-direction:row}.md\:items-center{align-items:center}.md\:items-end{align-items:flex-end}.md\:self-auto{align-self:auto}.md\:p-10{padding:calc(var(--spacing) * 10)}.md\:text-4xl{font-size:var(--text-4xl);line-height:var(--tw-leading,var(--text-4xl--line-height))}.md\:text-5xl{font-size:var(--text-5xl);line-height:var(--tw-leading,var(--text-5xl--line-height))}.md\:text-6xl{font-size:var(--text-6xl);line-height:var(--tw-leading,var(--text-6xl--line-height))}.md\:text-lg{font-size:var(--text-lg);line-height:var(--tw-leading,var(--text-lg--line-height))}.md\:text-xl{font-size:var(--text-xl);line-height:var(--tw-leading,var(--text-xl--line-height))}}@media (width>=64rem){.lg\:ml-64{margin-left:calc(var(--spacing) * 64)}.lg\:hidden{display:none}.lg\:translate-x-0{--tw-translate-x:calc(var(--spacing) * 0);translate:var(--tw-translate-x) var(--tw-translate-y)}.lg\:grid-cols-2{grid-template-columns:repeat(2,minmax(0,1fr))}.lg\:grid-cols-3{grid-template-columns:repeat(3,minmax(0,1fr))}.lg\:grid-cols-4{grid-template-columns:repeat(4,minmax(0,1fr))}.lg\:px-8{padding-inline:calc(var(--spacing) * 8)}.lg\:text-7xl{font-size:var(--text-7xl);line-height:var(--tw-leading,var(--text-7xl--line-height))}}}@property --tw-translate-x{syntax:"*";inherits:false;initial-value:0}@property --tw-translate-y{syntax:"*";inherits:false;initial-value:0}@property --tw-translate-z{syntax:"*";inherits:false;initial-value:0}@property --tw-rotate-x{syntax:"*";inherits:false}@property --tw-rotate-y{syntax:"*";inherits:false}@property --tw-rotate-z{syntax:"*";inherits:false}@property --tw-skew-x{syntax:"*";inherits:false}@property --tw-skew-y{syntax:"*";inherits:false}@property --tw-border-style{syntax:"*";inherits:false;initial-value:solid}@property --tw-gradient-position{syntax:"*";inherits:false}@property --tw-gradient-from{syntax:"<color>";inherits:false;initial-value:#0000}@property --tw-gradient-via{syntax:"<color>";inherits:false;initial-value:#0000}@property --tw-gradient-to{syntax:"<color>";inherits:false;initial-value:#0000}@property --tw-gradient-stops{syntax:"*";inherits:false}@property --tw-gradient-via-stops{syntax:"*";inherits:false}@property --tw-gradient-from-position{syntax:"<length-percentage>";inherits:false;initial-value:0%}@property --tw-gradient-via-position{syntax:"<length-percentage>";inherits:false;initial-value:50%}@property --tw-gradient-to-position{syntax:"<length-percentage>";inherits:false;initial-value:100%}@property --tw-leading{syntax:"*";inherits:false}@property --tw-font-weight{syntax:"*";inherits:false}@property --tw-tracking{syntax:"*";inherits:false}@property --tw-shadow{syntax:"*";inherits:false;initial-value:0 0 #0000}@property --tw-shadow-color{syntax:"*";inherits:false}@property --tw-shadow-alpha{syntax:"<percentage>";inherits:false;initial-value:100%}@property --tw-inset-shadow{syntax:"*";inherits:false;initial-value:0 0 #0000}@property --tw-inset-shadow-color{syntax:"*";inherits:false}@property --tw-inset-shadow-alpha{syntax:"<percentage>";inherits:false;initial-value:100%}@property --tw-ring-color{syntax:"*";inherits:false}@property --tw-ring-shadow{syntax:"*";inherits:false;initial-value:0 0 #0000}@property --tw-inset-ring-color{syntax:"*";inherits:false}@property --tw-inset-ring-shadow{syntax:"*";inherits:false;initial-value:0 0 #0000}@property --tw-ring-inset{syntax:"*";inherits:false}@property --tw-ring-offset-width{syntax:"<length>";inherits:false;initial-value:0}@property --tw-ring-offset-color{syntax:"*";inherits:false;initial-value:#fff}@property --tw-ring-offset-shadow{syntax:"*";inherits:false;initial-value:0 0 #0000}@property --tw-blur{syntax:"*";inherits:false}@property --tw-brightness{syntax:"*";inherits:false}@property --tw-contrast{syntax:"*";inherits:false}@property --tw-grayscale{syntax:"*";inherits:false}@property --tw-hue-rotate{syntax:"*";inherits:false}@property --tw-invert{syntax:"*";inherits:false}@property --tw-opacity{syntax:"*";inherits:false}@property --tw-saturate{syntax:"*";inherits:false}@property --tw-sepia{syntax:"*";inherits:false}@property --tw-drop-shadow{syntax:"*";inherits:false}@property --tw-drop-shadow-color{syntax:"*";inherits:false}@property --tw-drop-shadow-alpha{syntax:"<percentage>";inherits:false;initial-value:100%}@property --tw-drop-shadow-size{syntax:"*";inherits:false}@property --tw-backdrop-blur{syntax:"*";inherits:false}@property --tw-backdrop-brightness{syntax:"*";inherits:false}@property --tw-backdrop-contrast{syntax:"*";inherits:false}@property --tw-backdrop-grayscale{syntax:"*";inherits:false}@property --tw-backdrop-hue-rotate{syntax:"*";inherits:false}@property --tw-backdrop-invert{syntax:"*";inherits:false}@property --tw-backdrop-opacity{syntax:"*";inherits:false}@property --tw-backdrop-saturate{syntax:"*";inherits:false}@property --tw-backdrop-sepia{syntax:"*";inherits:false}@property --tw-duration{syntax:"*";inherits:false}@property --tw-ease{syntax:"*";inherits:false}@property --tw-scale-x{syntax:"*";inherits:false;initial-value:1}@property --tw-scale-y{syntax:"*";inherits:false;initial-value:1}@property --tw-scale-z{syntax:"*";inherits:false;initial-value:1}@property --tw-content{syntax:"*";inherits:false;initial-value:""}@keyframes spin{to{transform:rotate(360deg)}}